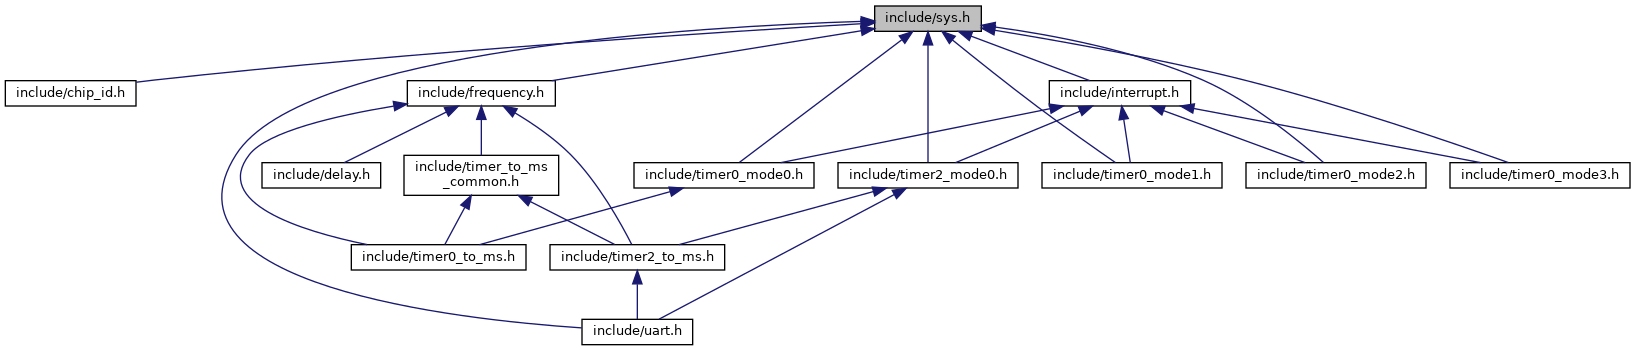
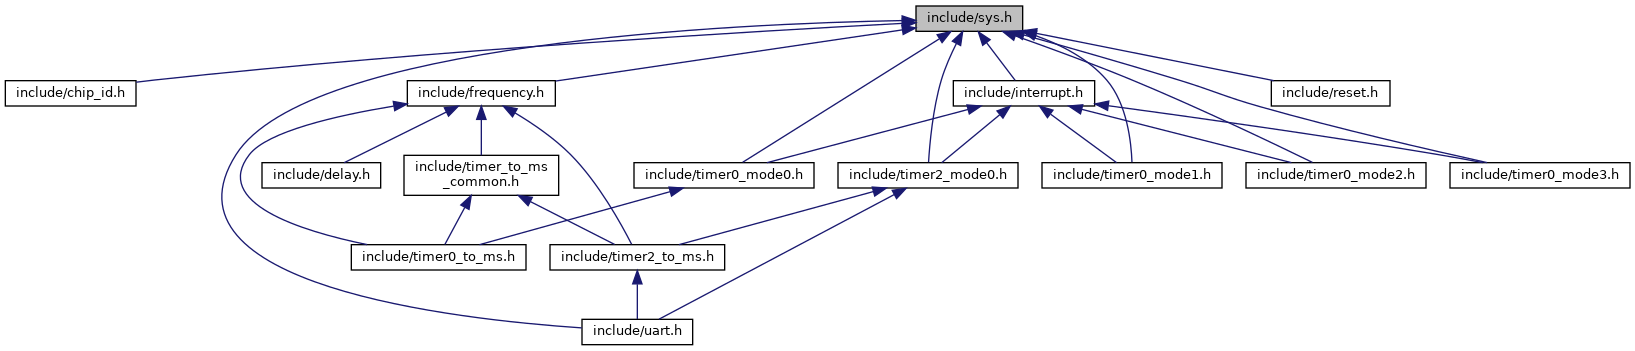
quick and dirty reset() implemented

diff --git a/docs/html/files.html b/docs/html/files.html
@@ -73,19 +73,20 @@ $(function() {
 <tr id="row_0_2_"><td class="entry"><span style="width:32px;display:inline-block;">&#160;</span><a href="delay_8h_source.html"><span class="icondoc"></span></a><a class="el" href="delay_8h.html" target="_self">delay.h</a></td><td class="desc"></td></tr>
 <tr id="row_0_3_" class="even"><td class="entry"><span style="width:32px;display:inline-block;">&#160;</span><a href="frequency_8h_source.html"><span class="icondoc"></span></a><a class="el" href="frequency_8h.html" target="_self">frequency.h</a></td><td class="desc"></td></tr>
 <tr id="row_0_4_"><td class="entry"><span style="width:32px;display:inline-block;">&#160;</span><a href="interrupt_8h_source.html"><span class="icondoc"></span></a><a class="el" href="interrupt_8h.html" target="_self">interrupt.h</a></td><td class="desc"></td></tr>
-<tr id="row_0_5_" class="even"><td class="entry"><span style="width:32px;display:inline-block;">&#160;</span><a href="STC15Fxx_8h_source.html"><span class="icondoc"></span></a><b>STC15Fxx.h</b></td><td class="desc"></td></tr>
-<tr id="row_0_6_"><td class="entry"><span style="width:32px;display:inline-block;">&#160;</span><a href="sys_8h_source.html"><span class="icondoc"></span></a><a class="el" href="sys_8h.html" target="_self">sys.h</a></td><td class="desc"></td></tr>
-<tr id="row_0_7_" class="even"><td class="entry"><span style="width:32px;display:inline-block;">&#160;</span><a href="timer0__mode0_8h_source.html"><span class="icondoc"></span></a><a class="el" href="timer0__mode0_8h.html" target="_self">timer0_mode0.h</a></td><td class="desc"></td></tr>
-<tr id="row_0_8_"><td class="entry"><span style="width:32px;display:inline-block;">&#160;</span><a href="timer0__mode1_8h_source.html"><span class="icondoc"></span></a><a class="el" href="timer0__mode1_8h.html" target="_self">timer0_mode1.h</a></td><td class="desc"></td></tr>
-<tr id="row_0_9_" class="even"><td class="entry"><span style="width:32px;display:inline-block;">&#160;</span><a href="timer0__mode2_8h_source.html"><span class="icondoc"></span></a><a class="el" href="timer0__mode2_8h.html" target="_self">timer0_mode2.h</a></td><td class="desc"></td></tr>
-<tr id="row_0_10_"><td class="entry"><span style="width:32px;display:inline-block;">&#160;</span><a href="timer0__mode3_8h_source.html"><span class="icondoc"></span></a><a class="el" href="timer0__mode3_8h.html" target="_self">timer0_mode3.h</a></td><td class="desc"></td></tr>
-<tr id="row_0_11_" class="even"><td class="entry"><span style="width:32px;display:inline-block;">&#160;</span><a href="timer0__to__ms_8h_source.html"><span class="icondoc"></span></a><a class="el" href="timer0__to__ms_8h.html" target="_self">timer0_to_ms.h</a></td><td class="desc"></td></tr>
-<tr id="row_0_12_"><td class="entry"><span style="width:32px;display:inline-block;">&#160;</span><a href="timer2__mode0_8h_source.html"><span class="icondoc"></span></a><a class="el" href="timer2__mode0_8h.html" target="_self">timer2_mode0.h</a></td><td class="desc"></td></tr>
-<tr id="row_0_13_" class="even"><td class="entry"><span style="width:32px;display:inline-block;">&#160;</span><a href="timer2__to__ms_8h_source.html"><span class="icondoc"></span></a><a class="el" href="timer2__to__ms_8h.html" target="_self">timer2_to_ms.h</a></td><td class="desc"></td></tr>
-<tr id="row_0_14_"><td class="entry"><span style="width:32px;display:inline-block;">&#160;</span><a href="timer__common_8h_source.html"><span class="icondoc"></span></a><a class="el" href="timer__common_8h.html" target="_self">timer_common.h</a></td><td class="desc"></td></tr>
-<tr id="row_0_15_" class="even"><td class="entry"><span style="width:32px;display:inline-block;">&#160;</span><a href="timer__structs_8h_source.html"><span class="icondoc"></span></a><b>timer_structs.h</b></td><td class="desc"></td></tr>
-<tr id="row_0_16_"><td class="entry"><span style="width:32px;display:inline-block;">&#160;</span><a href="timer__to__ms__common_8h_source.html"><span class="icondoc"></span></a><a class="el" href="timer__to__ms__common_8h.html" target="_self">timer_to_ms_common.h</a></td><td class="desc"></td></tr>
-<tr id="row_0_17_" class="even"><td class="entry"><span style="width:32px;display:inline-block;">&#160;</span><a href="uart_8h_source.html"><span class="icondoc"></span></a><a class="el" href="uart_8h.html" target="_self">uart.h</a></td><td class="desc"></td></tr>
+<tr id="row_0_5_" class="even"><td class="entry"><span style="width:32px;display:inline-block;">&#160;</span><a href="reset_8h_source.html"><span class="icondoc"></span></a><a class="el" href="reset_8h.html" target="_self">reset.h</a></td><td class="desc"></td></tr>
+<tr id="row_0_6_"><td class="entry"><span style="width:32px;display:inline-block;">&#160;</span><a href="STC15Fxx_8h_source.html"><span class="icondoc"></span></a><b>STC15Fxx.h</b></td><td class="desc"></td></tr>
+<tr id="row_0_7_" class="even"><td class="entry"><span style="width:32px;display:inline-block;">&#160;</span><a href="sys_8h_source.html"><span class="icondoc"></span></a><a class="el" href="sys_8h.html" target="_self">sys.h</a></td><td class="desc"></td></tr>
+<tr id="row_0_8_"><td class="entry"><span style="width:32px;display:inline-block;">&#160;</span><a href="timer0__mode0_8h_source.html"><span class="icondoc"></span></a><a class="el" href="timer0__mode0_8h.html" target="_self">timer0_mode0.h</a></td><td class="desc"></td></tr>
+<tr id="row_0_9_" class="even"><td class="entry"><span style="width:32px;display:inline-block;">&#160;</span><a href="timer0__mode1_8h_source.html"><span class="icondoc"></span></a><a class="el" href="timer0__mode1_8h.html" target="_self">timer0_mode1.h</a></td><td class="desc"></td></tr>
+<tr id="row_0_10_"><td class="entry"><span style="width:32px;display:inline-block;">&#160;</span><a href="timer0__mode2_8h_source.html"><span class="icondoc"></span></a><a class="el" href="timer0__mode2_8h.html" target="_self">timer0_mode2.h</a></td><td class="desc"></td></tr>
+<tr id="row_0_11_" class="even"><td class="entry"><span style="width:32px;display:inline-block;">&#160;</span><a href="timer0__mode3_8h_source.html"><span class="icondoc"></span></a><a class="el" href="timer0__mode3_8h.html" target="_self">timer0_mode3.h</a></td><td class="desc"></td></tr>
+<tr id="row_0_12_"><td class="entry"><span style="width:32px;display:inline-block;">&#160;</span><a href="timer0__to__ms_8h_source.html"><span class="icondoc"></span></a><a class="el" href="timer0__to__ms_8h.html" target="_self">timer0_to_ms.h</a></td><td class="desc"></td></tr>
+<tr id="row_0_13_" class="even"><td class="entry"><span style="width:32px;display:inline-block;">&#160;</span><a href="timer2__mode0_8h_source.html"><span class="icondoc"></span></a><a class="el" href="timer2__mode0_8h.html" target="_self">timer2_mode0.h</a></td><td class="desc"></td></tr>
+<tr id="row_0_14_"><td class="entry"><span style="width:32px;display:inline-block;">&#160;</span><a href="timer2__to__ms_8h_source.html"><span class="icondoc"></span></a><a class="el" href="timer2__to__ms_8h.html" target="_self">timer2_to_ms.h</a></td><td class="desc"></td></tr>
+<tr id="row_0_15_" class="even"><td class="entry"><span style="width:32px;display:inline-block;">&#160;</span><a href="timer__common_8h_source.html"><span class="icondoc"></span></a><a class="el" href="timer__common_8h.html" target="_self">timer_common.h</a></td><td class="desc"></td></tr>
+<tr id="row_0_16_"><td class="entry"><span style="width:32px;display:inline-block;">&#160;</span><a href="timer__structs_8h_source.html"><span class="icondoc"></span></a><b>timer_structs.h</b></td><td class="desc"></td></tr>
+<tr id="row_0_17_" class="even"><td class="entry"><span style="width:32px;display:inline-block;">&#160;</span><a href="timer__to__ms__common_8h_source.html"><span class="icondoc"></span></a><a class="el" href="timer__to__ms__common_8h.html" target="_self">timer_to_ms_common.h</a></td><td class="desc"></td></tr>
+<tr id="row_0_18_"><td class="entry"><span style="width:32px;display:inline-block;">&#160;</span><a href="uart_8h_source.html"><span class="icondoc"></span></a><a class="el" href="uart_8h.html" target="_self">uart.h</a></td><td class="desc"></td></tr>
 </table>
 </div><!-- directory -->
 </div><!-- contents -->

diff --git a/docs/html/modules.html b/docs/html/modules.html
@@ -71,16 +71,17 @@ $(function() {
 <tr id="row_1_"><td class="entry"><span style="width:16px;display:inline-block;">&#160;</span><a class="el" href="group__delays.html" target="_self">Delay</a></td><td class="desc"></td></tr>
 <tr id="row_2_" class="even"><td class="entry"><span style="width:16px;display:inline-block;">&#160;</span><a class="el" href="group__freq.html" target="_self">Frequency</a></td><td class="desc"></td></tr>
 <tr id="row_3_"><td class="entry"><span style="width:16px;display:inline-block;">&#160;</span><a class="el" href="group__interrupts.html" target="_self">Interrupt</a></td><td class="desc"></td></tr>
-<tr id="row_4_" class="even"><td class="entry"><span style="width:16px;display:inline-block;">&#160;</span><a class="el" href="group__timer0__mode0.html" target="_self">Timer0 Mode0</a></td><td class="desc"></td></tr>
-<tr id="row_5_"><td class="entry"><span style="width:16px;display:inline-block;">&#160;</span><a class="el" href="group__timer0__mode1.html" target="_self">Timer0 Mode1</a></td><td class="desc"></td></tr>
-<tr id="row_6_" class="even"><td class="entry"><span style="width:16px;display:inline-block;">&#160;</span><a class="el" href="group__timer0__mode2.html" target="_self">Timer0 Mode2</a></td><td class="desc"></td></tr>
-<tr id="row_7_"><td class="entry"><span style="width:16px;display:inline-block;">&#160;</span><a class="el" href="group__timer0__mode3.html" target="_self">Timer0 Mode3</a></td><td class="desc"></td></tr>
-<tr id="row_8_" class="even"><td class="entry"><span style="width:16px;display:inline-block;">&#160;</span><a class="el" href="group__timer0__to__ms.html" target="_self">Timer0 Aux</a></td><td class="desc"></td></tr>
-<tr id="row_9_"><td class="entry"><span style="width:16px;display:inline-block;">&#160;</span><a class="el" href="group__timer2__mode0.html" target="_self">Timer2 Mode0</a></td><td class="desc"></td></tr>
-<tr id="row_10_" class="even"><td class="entry"><span style="width:16px;display:inline-block;">&#160;</span><a class="el" href="group__timer2__to__ms.html" target="_self">Timer2 Aux</a></td><td class="desc"></td></tr>
-<tr id="row_11_"><td class="entry"><span style="width:16px;display:inline-block;">&#160;</span><a class="el" href="group__timer__common.html" target="_self">Timer common</a></td><td class="desc"></td></tr>
-<tr id="row_12_" class="even"><td class="entry"><span style="width:16px;display:inline-block;">&#160;</span><a class="el" href="group__timer__to__ms.html" target="_self">Timer Aux common</a></td><td class="desc"></td></tr>
-<tr id="row_13_"><td class="entry"><span style="width:16px;display:inline-block;">&#160;</span><a class="el" href="group__uart.html" target="_self">UART1</a></td><td class="desc"></td></tr>
+<tr id="row_4_" class="even"><td class="entry"><span style="width:16px;display:inline-block;">&#160;</span><a class="el" href="group__reset.html" target="_self">Reset and WDT</a></td><td class="desc"></td></tr>
+<tr id="row_5_"><td class="entry"><span style="width:16px;display:inline-block;">&#160;</span><a class="el" href="group__timer0__mode0.html" target="_self">Timer0 Mode0</a></td><td class="desc"></td></tr>
+<tr id="row_6_" class="even"><td class="entry"><span style="width:16px;display:inline-block;">&#160;</span><a class="el" href="group__timer0__mode1.html" target="_self">Timer0 Mode1</a></td><td class="desc"></td></tr>
+<tr id="row_7_"><td class="entry"><span style="width:16px;display:inline-block;">&#160;</span><a class="el" href="group__timer0__mode2.html" target="_self">Timer0 Mode2</a></td><td class="desc"></td></tr>
+<tr id="row_8_" class="even"><td class="entry"><span style="width:16px;display:inline-block;">&#160;</span><a class="el" href="group__timer0__mode3.html" target="_self">Timer0 Mode3</a></td><td class="desc"></td></tr>
+<tr id="row_9_"><td class="entry"><span style="width:16px;display:inline-block;">&#160;</span><a class="el" href="group__timer0__to__ms.html" target="_self">Timer0 Aux</a></td><td class="desc"></td></tr>
+<tr id="row_10_" class="even"><td class="entry"><span style="width:16px;display:inline-block;">&#160;</span><a class="el" href="group__timer2__mode0.html" target="_self">Timer2 Mode0</a></td><td class="desc"></td></tr>
+<tr id="row_11_"><td class="entry"><span style="width:16px;display:inline-block;">&#160;</span><a class="el" href="group__timer2__to__ms.html" target="_self">Timer2 Aux</a></td><td class="desc"></td></tr>
+<tr id="row_12_" class="even"><td class="entry"><span style="width:16px;display:inline-block;">&#160;</span><a class="el" href="group__timer__common.html" target="_self">Timer common</a></td><td class="desc"></td></tr>
+<tr id="row_13_"><td class="entry"><span style="width:16px;display:inline-block;">&#160;</span><a class="el" href="group__timer__to__ms.html" target="_self">Timer Aux common</a></td><td class="desc"></td></tr>
+<tr id="row_14_" class="even"><td class="entry"><span style="width:16px;display:inline-block;">&#160;</span><a class="el" href="group__uart.html" target="_self">UART1</a></td><td class="desc"></td></tr>
 </table>
 </div><!-- directory -->
 </div><!-- contents -->

diff --git a/docs/html/reset_8h.html b/docs/html/reset_8h.html
@@ -5,7 +5,7 @@
 <meta http-equiv="X-UA-Compatible" content="IE=11"/>
 <meta name="generator" content="Doxygen 1.9.4"/>
 <meta name="viewport" content="width=device-width, initial-scale=1"/>
-<title>STC15W408AS library: src Directory Reference</title>
+<title>STC15W408AS library: include/reset.h File Reference</title>
 <link href="tabs.css" rel="stylesheet" type="text/css"/>
 <script type="text/javascript" src="jquery.js"></script>
 <script type="text/javascript" src="dynsections.js"></script>
@@ -62,23 +62,38 @@ $(function() {
 
 <div id="nav-path" class="navpath">
   <ul>
-<li class="navelem"><a class="el" href="dir_68267d1309a1af8e8297ef4c3efbcdba.html">src</a></li>  </ul>
+<li class="navelem"><a class="el" href="dir_d44c64559bbebec7f509842c48db8b23.html">include</a></li>  </ul>
 </div>
 </div><!-- top -->
 <div class="header">
-  <div class="headertitle"><div class="title">src Directory Reference</div></div>
+  <div class="summary">
+<a href="#func-members">Functions</a>  </div>
+  <div class="headertitle"><div class="title">reset.h File Reference</div></div>
 </div><!--header-->
 <div class="contents">
-<div class="dynheader">
-Directory dependency graph for src:</div>
+<div class="textblock"><code>#include &lt;<a class="el" href="sys_8h_source.html">sys.h</a>&gt;</code><br />
+<code>#include &lt;bits.h&gt;</code><br />
+</div><div class="textblock"><div class="dynheader">
+Include dependency graph for reset.h:</div>
 <div class="dyncontent">
-<div class="center"><img src="dir_68267d1309a1af8e8297ef4c3efbcdba_dep.png" border="0" usemap="#adir__68267d1309a1af8e8297ef4c3efbcdba__dep" alt="src"/></div>
-<map name="adir__68267d1309a1af8e8297ef4c3efbcdba__dep" id="adir__68267d1309a1af8e8297ef4c3efbcdba__dep">
-<area shape="rect" href="dir_68267d1309a1af8e8297ef4c3efbcdba.html" title="src" alt="" coords="5,5,77,53"/>
-<area shape="rect" href="dir_d44c64559bbebec7f509842c48db8b23.html" title="include" alt="" coords="5,101,77,149"/>
-<area shape="rect" href="dir_000017_000011.html" title="5" alt="" coords="45,76,54,90"/>
+<div class="center"><img src="reset_8h__incl.png" border="0" usemap="#ainclude_2reset_8h" alt=""/></div>
+<map name="ainclude_2reset_8h" id="ainclude_2reset_8h">
+<area shape="rect" title=" " alt="" coords="35,5,154,32"/>
+<area shape="rect" href="sys_8h.html" title=" " alt="" coords="27,80,83,107"/>
+<area shape="rect" href="bits_8h_source.html" title=" " alt="" coords="107,80,165,107"/>
+<area shape="rect" href="STC15Fxx_8h_source.html" title=" " alt="" coords="5,155,104,181"/>
+<area shape="rect" title=" " alt="" coords="9,229,100,256"/>
 </map>
 </div>
+</div>
+<p><a href="reset_8h_source.html">Go to the source code of this file.</a></p>
+<table class="memberdecls">
+<tr class="heading"><td colspan="2"><h2 class="groupheader"><a id="func-members" name="func-members"></a>
+Functions</h2></td></tr>
+<tr class="memitem:ad20897c5c8bd47f5d4005989bead0e55"><td class="memItemLeft" align="right" valign="top"><a id="ad20897c5c8bd47f5d4005989bead0e55" name="ad20897c5c8bd47f5d4005989bead0e55"></a>
+void&#160;</td><td class="memItemRight" valign="bottom"><b>reset</b> ()</td></tr>
+<tr class="separator:ad20897c5c8bd47f5d4005989bead0e55"><td class="memSeparator" colspan="2">&#160;</td></tr>
+</table>
 </div><!-- contents -->
 <!-- start footer part -->
 <hr class="footer"/><address class="footer"><small>

diff --git a/docs/html/reset_8h_source.html b/docs/html/reset_8h_source.html
@@ -5,7 +5,7 @@
 <meta http-equiv="X-UA-Compatible" content="IE=11"/>
 <meta name="generator" content="Doxygen 1.9.4"/>
 <meta name="viewport" content="width=device-width, initial-scale=1"/>
-<title>STC15W408AS library: src Directory Reference</title>
+<title>STC15W408AS library: include/reset.h Source File</title>
 <link href="tabs.css" rel="stylesheet" type="text/css"/>
 <script type="text/javascript" src="jquery.js"></script>
 <script type="text/javascript" src="dynsections.js"></script>
@@ -62,24 +62,23 @@ $(function() {
 
 <div id="nav-path" class="navpath">
   <ul>
-<li class="navelem"><a class="el" href="dir_68267d1309a1af8e8297ef4c3efbcdba.html">src</a></li>  </ul>
+<li class="navelem"><a class="el" href="dir_d44c64559bbebec7f509842c48db8b23.html">include</a></li>  </ul>
 </div>
 </div><!-- top -->
 <div class="header">
-  <div class="headertitle"><div class="title">src Directory Reference</div></div>
+  <div class="headertitle"><div class="title">reset.h</div></div>
 </div><!--header-->
 <div class="contents">
-<div class="dynheader">
-Directory dependency graph for src:</div>
-<div class="dyncontent">
-<div class="center"><img src="dir_68267d1309a1af8e8297ef4c3efbcdba_dep.png" border="0" usemap="#adir__68267d1309a1af8e8297ef4c3efbcdba__dep" alt="src"/></div>
-<map name="adir__68267d1309a1af8e8297ef4c3efbcdba__dep" id="adir__68267d1309a1af8e8297ef4c3efbcdba__dep">
-<area shape="rect" href="dir_68267d1309a1af8e8297ef4c3efbcdba.html" title="src" alt="" coords="5,5,77,53"/>
-<area shape="rect" href="dir_d44c64559bbebec7f509842c48db8b23.html" title="include" alt="" coords="5,101,77,149"/>
-<area shape="rect" href="dir_000017_000011.html" title="5" alt="" coords="45,76,54,90"/>
-</map>
-</div>
-</div><!-- contents -->
+<a href="reset_8h.html">Go to the documentation of this file.</a><div class="fragment"><div class="line"><a id="l00001" name="l00001"></a><span class="lineno">    1</span><span class="preprocessor">#ifndef STC15_RESETH</span></div>
+<div class="line"><a id="l00002" name="l00002"></a><span class="lineno">    2</span><span class="preprocessor">#define STC15_RESETH</span></div>
+<div class="line"><a id="l00003" name="l00003"></a><span class="lineno">    3</span> </div>
+<div class="line"><a id="l00004" name="l00004"></a><span class="lineno">    4</span> </div>
+<div class="line"><a id="l00005" name="l00005"></a><span class="lineno">    5</span><span class="preprocessor">#include &lt;<a class="code" href="sys_8h.html">sys.h</a>&gt;</span></div>
+<div class="line"><a id="l00006" name="l00006"></a><span class="lineno">    6</span><span class="preprocessor">#include &lt;bits.h&gt;</span></div>
+<div class="line"><a id="l00014" name="l00014"></a><span class="lineno">   14</span><span class="keywordtype">void</span> reset();</div>
+<div class="line"><a id="l00015" name="l00015"></a><span class="lineno">   15</span><span class="preprocessor">#endif</span></div>
+<div class="ttc" id="asys_8h_html"><div class="ttname"><a href="sys_8h.html">sys.h</a></div></div>
+</div><!-- fragment --></div><!-- contents -->
 <!-- start footer part -->
 <hr class="footer"/><address class="footer"><small>
 Generated by&#160;<a href="https://www.doxygen.org/index.html"><img class="footer" src="doxygen.svg" width="104" height="31" alt="doxygen"/></a> 1.9.4

diff --git a/docs/html/group__reset.html b/docs/html/group__reset.html
@@ -5,7 +5,7 @@
 <meta http-equiv="X-UA-Compatible" content="IE=11"/>
 <meta name="generator" content="Doxygen 1.9.4"/>
 <meta name="viewport" content="width=device-width, initial-scale=1"/>
-<title>STC15W408AS library: src Directory Reference</title>
+<title>STC15W408AS library: Reset and WDT</title>
 <link href="tabs.css" rel="stylesheet" type="text/css"/>
 <script type="text/javascript" src="jquery.js"></script>
 <script type="text/javascript" src="dynsections.js"></script>
@@ -46,6 +46,7 @@ $(function() {
 /* @license-end */
 </script>
 <div id="main-nav"></div>
+</div><!-- top -->
 <!-- window showing the filter options -->
 <div id="MSearchSelectWindow"
      onmouseover="return searchBox.OnSearchSelectShow()"
@@ -60,25 +61,11 @@ $(function() {
 </iframe>
 </div>
 
-<div id="nav-path" class="navpath">
-  <ul>
-<li class="navelem"><a class="el" href="dir_68267d1309a1af8e8297ef4c3efbcdba.html">src</a></li>  </ul>
-</div>
-</div><!-- top -->
 <div class="header">
-  <div class="headertitle"><div class="title">src Directory Reference</div></div>
+  <div class="headertitle"><div class="title">Reset and WDT</div></div>
 </div><!--header-->
 <div class="contents">
-<div class="dynheader">
-Directory dependency graph for src:</div>
-<div class="dyncontent">
-<div class="center"><img src="dir_68267d1309a1af8e8297ef4c3efbcdba_dep.png" border="0" usemap="#adir__68267d1309a1af8e8297ef4c3efbcdba__dep" alt="src"/></div>
-<map name="adir__68267d1309a1af8e8297ef4c3efbcdba__dep" id="adir__68267d1309a1af8e8297ef4c3efbcdba__dep">
-<area shape="rect" href="dir_68267d1309a1af8e8297ef4c3efbcdba.html" title="src" alt="" coords="5,5,77,53"/>
-<area shape="rect" href="dir_d44c64559bbebec7f509842c48db8b23.html" title="include" alt="" coords="5,101,77,149"/>
-<area shape="rect" href="dir_000017_000011.html" title="5" alt="" coords="45,76,54,90"/>
-</map>
-</div>
+<p >Functions and data structures related software reset </p><dl class="section author"><dt>Author</dt><dd>Michael Golovanov </dd></dl>
 </div><!-- contents -->
 <!-- start footer part -->
 <hr class="footer"/><address class="footer"><small>

diff --git a/docs/html/dir_000017_000011.html b/docs/html/dir_000017_000011.html
@@ -66,7 +66,7 @@ $(function() {
 </div>
 </div><!-- top -->
 <div class="contents">
-<h3>src &rarr; include Relation</h3><table class="dirtab"><tr class="dirtab"><th class="dirtab">File in src</th><th class="dirtab">Includes file in include</th></tr><tr class="dirtab"><td class="dirtab"><b>delay.c</b></td><td class="dirtab"><a class="el" href="delay_8h.html">delay.h</a></td></tr><tr class="dirtab"><td class="dirtab"><b>timer0_to_ms_common.c</b></td><td class="dirtab"><a class="el" href="timer__to__ms__common_8h.html">timer_to_ms_common.h</a></td></tr><tr class="dirtab"><td class="dirtab"><b>timer2_to_ms.c</b></td><td class="dirtab"><a class="el" href="timer2__to__ms_8h.html">timer2_to_ms.h</a></td></tr><tr class="dirtab"><td class="dirtab"><b>uart.c</b></td><td class="dirtab"><a class="el" href="uart_8h.html">uart.h</a></td></tr></table></div><!-- contents -->
+<h3>src &rarr; include Relation</h3><table class="dirtab"><tr class="dirtab"><th class="dirtab">File in src</th><th class="dirtab">Includes file in include</th></tr><tr class="dirtab"><td class="dirtab"><b>delay.c</b></td><td class="dirtab"><a class="el" href="delay_8h.html">delay.h</a></td></tr><tr class="dirtab"><td class="dirtab"><b>reset.c</b></td><td class="dirtab"><a class="el" href="reset_8h.html">reset.h</a></td></tr><tr class="dirtab"><td class="dirtab"><b>timer0_to_ms_common.c</b></td><td class="dirtab"><a class="el" href="timer__to__ms__common_8h.html">timer_to_ms_common.h</a></td></tr><tr class="dirtab"><td class="dirtab"><b>timer2_to_ms.c</b></td><td class="dirtab"><a class="el" href="timer2__to__ms_8h.html">timer2_to_ms.h</a></td></tr><tr class="dirtab"><td class="dirtab"><b>uart.c</b></td><td class="dirtab"><a class="el" href="uart_8h.html">uart.h</a></td></tr></table></div><!-- contents -->
 <!-- start footer part -->
 <hr class="footer"/><address class="footer"><small>
 Generated by&#160;<a href="https://www.doxygen.org/index.html"><img class="footer" src="doxygen.svg" width="104" height="31" alt="doxygen"/></a> 1.9.4

diff --git a/docs/html/sys_8h.html b/docs/html/sys_8h.html
@@ -87,16 +87,17 @@ This graph shows which files directly or indirectly include this file:</div>
 <div class="dyncontent">
 <div class="center"><img src="sys_8h__dep__incl.png" border="0" usemap="#ainclude_2sys_8hdep" alt=""/></div>
 <map name="ainclude_2sys_8hdep" id="ainclude_2sys_8hdep">
-<area shape="rect" title=" " alt="" coords="875,5,981,32"/>
+<area shape="rect" title=" " alt="" coords="916,5,1023,32"/>
 <area shape="rect" href="chip__id_8h.html" title=" " alt="" coords="5,80,136,107"/>
 <area shape="rect" href="frequency_8h.html" title=" " alt="" coords="407,80,555,107"/>
 <area shape="rect" href="uart_8h.html" title=" " alt="" coords="582,319,693,345"/>
-<area shape="rect" href="interrupt_8h.html" title=" " alt="" coords="1049,80,1191,107"/>
+<area shape="rect" href="interrupt_8h.html" title=" " alt="" coords="953,80,1095,107"/>
 <area shape="rect" href="timer0__mode0_8h.html" title=" " alt="" coords="634,162,814,189"/>
 <area shape="rect" href="timer0__mode1_8h.html" title=" " alt="" coords="1042,162,1222,189"/>
 <area shape="rect" href="timer0__mode2_8h.html" title=" " alt="" coords="1246,162,1426,189"/>
 <area shape="rect" href="timer0__mode3_8h.html" title=" " alt="" coords="1450,162,1630,189"/>
 <area shape="rect" href="timer2__mode0_8h.html" title=" " alt="" coords="838,162,1018,189"/>
+<area shape="rect" href="reset_8h.html" title=" " alt="" coords="1271,80,1390,107"/>
 <area shape="rect" href="delay_8h.html" title=" " alt="" coords="262,162,381,189"/>
 <area shape="rect" href="timer0__to__ms_8h.html" title=" " alt="" coords="351,244,526,271"/>
 <area shape="rect" href="timer2__to__ms_8h.html" title=" " alt="" coords="550,244,725,271"/>

diff --git a/docs/html/search/groups_6.html b/docs/html/search/groups_6.html
@@ -1,0 +1,37 @@
+<!DOCTYPE html PUBLIC "-//W3C//DTD XHTML 1.0 Transitional//EN" "https://www.w3.org/TR/xhtml1/DTD/xhtml1-transitional.dtd">
+<html xmlns="http://www.w3.org/1999/xhtml">
+<head><title></title>
+<meta http-equiv="Content-Type" content="text/xhtml;charset=UTF-8"/>
+<meta name="generator" content="Doxygen 1.9.4"/>
+<link rel="stylesheet" type="text/css" href="search.css"/>
+<script type="text/javascript" src="groups_6.js"></script>
+<script type="text/javascript" src="search.js"></script>
+</head>
+<body class="SRPage">
+<div id="SRIndex">
+<div class="SRStatus" id="Loading">Loading...</div>
+<div id="SRResults"></div>
+<script type="text/javascript">
+/* @license magnet:?xt=urn:btih:d3d9a9a6595521f9666a5e94cc830dab83b65699&amp;dn=expat.txt MIT */
+createResults();
+/* @license-end */
+</script>
+<div class="SRStatus" id="Searching">Searching...</div>
+<div class="SRStatus" id="NoMatches">No Matches</div>
+<script type="text/javascript">
+/* @license magnet:?xt=urn:btih:d3d9a9a6595521f9666a5e94cc830dab83b65699&amp;dn=expat.txt MIT */
+document.getElementById("Loading").style.display="none";
+document.getElementById("NoMatches").style.display="none";
+var searchResults = new SearchResults("searchResults");
+searchResults.Search();
+window.addEventListener("message", function(event) {
+  if (event.data == "take_focus") {
+    var elem = searchResults.NavNext(0);
+    if (elem) elem.focus();
+  }
+});
+/* @license-end */
+</script>
+</div>
+</body>
+</html>

diff --git a/docs/html/dir_d44c64559bbebec7f509842c48db8b23.html b/docs/html/dir_d44c64559bbebec7f509842c48db8b23.html
@@ -82,6 +82,8 @@ Files</h2></td></tr>
 <tr class="separator:"><td class="memSeparator" colspan="2">&#160;</td></tr>
 <tr class="memitem:"><td class="memItemLeft" align="right" valign="top">file &#160;</td><td class="memItemRight" valign="bottom"><a class="el" href="interrupt_8h.html">interrupt.h</a> <a href="interrupt_8h_source.html">[code]</a></td></tr>
 <tr class="separator:"><td class="memSeparator" colspan="2">&#160;</td></tr>
+<tr class="memitem:"><td class="memItemLeft" align="right" valign="top">file &#160;</td><td class="memItemRight" valign="bottom"><a class="el" href="reset_8h.html">reset.h</a> <a href="reset_8h_source.html">[code]</a></td></tr>
+<tr class="separator:"><td class="memSeparator" colspan="2">&#160;</td></tr>
 <tr class="memitem:"><td class="memItemLeft" align="right" valign="top">file &#160;</td><td class="memItemRight" valign="bottom"><b>STC15Fxx.h</b> <a href="STC15Fxx_8h_source.html">[code]</a></td></tr>
 <tr class="separator:"><td class="memSeparator" colspan="2">&#160;</td></tr>
 <tr class="memitem:"><td class="memItemLeft" align="right" valign="top">file &#160;</td><td class="memItemRight" valign="bottom"><a class="el" href="sys_8h.html">sys.h</a> <a href="sys_8h_source.html">[code]</a></td></tr>

diff --git a/docs/html/search/files_6.js b/docs/html/search/files_6.js
@@ -1,4 +1,12 @@
 var searchData=
 [
-  ['uart_2eh_0',['uart.h',['../uart_8h.html',1,'']]]
+  ['timer0_5fmode0_2eh_0',['timer0_mode0.h',['../timer0__mode0_8h.html',1,'']]],
+  ['timer0_5fmode1_2eh_1',['timer0_mode1.h',['../timer0__mode1_8h.html',1,'']]],
+  ['timer0_5fmode2_2eh_2',['timer0_mode2.h',['../timer0__mode2_8h.html',1,'']]],
+  ['timer0_5fmode3_2eh_3',['timer0_mode3.h',['../timer0__mode3_8h.html',1,'']]],
+  ['timer0_5fto_5fms_2eh_4',['timer0_to_ms.h',['../timer0__to__ms_8h.html',1,'']]],
+  ['timer2_5fmode0_2eh_5',['timer2_mode0.h',['../timer2__mode0_8h.html',1,'']]],
+  ['timer2_5fto_5fms_2eh_6',['timer2_to_ms.h',['../timer2__to__ms_8h.html',1,'']]],
+  ['timer_5fcommon_2eh_7',['timer_common.h',['../timer__common_8h.html',1,'']]],
+  ['timer_5fto_5fms_5fcommon_2eh_8',['timer_to_ms_common.h',['../timer__to__ms__common_8h.html',1,'']]]
 ];

diff --git a/docs/html/search/files_5.js b/docs/html/search/files_5.js
@@ -1,12 +1,4 @@
 var searchData=
 [
-  ['timer0_5fmode0_2eh_0',['timer0_mode0.h',['../timer0__mode0_8h.html',1,'']]],
-  ['timer0_5fmode1_2eh_1',['timer0_mode1.h',['../timer0__mode1_8h.html',1,'']]],
-  ['timer0_5fmode2_2eh_2',['timer0_mode2.h',['../timer0__mode2_8h.html',1,'']]],
-  ['timer0_5fmode3_2eh_3',['timer0_mode3.h',['../timer0__mode3_8h.html',1,'']]],
-  ['timer0_5fto_5fms_2eh_4',['timer0_to_ms.h',['../timer0__to__ms_8h.html',1,'']]],
-  ['timer2_5fmode0_2eh_5',['timer2_mode0.h',['../timer2__mode0_8h.html',1,'']]],
-  ['timer2_5fto_5fms_2eh_6',['timer2_to_ms.h',['../timer2__to__ms_8h.html',1,'']]],
-  ['timer_5fcommon_2eh_7',['timer_common.h',['../timer__common_8h.html',1,'']]],
-  ['timer_5fto_5fms_5fcommon_2eh_8',['timer_to_ms_common.h',['../timer__to__ms__common_8h.html',1,'']]]
+  ['sys_2eh_0',['sys.h',['../sys_8h.html',1,'']]]
 ];

diff --git a/docs/html/search/groups_4.js b/docs/html/search/groups_4.js
@@ -1,12 +1,4 @@
 var searchData=
 [
-  ['timer_20aux_20common_0',['Timer Aux common',['../group__timer__to__ms.html',1,'']]],
-  ['timer_20common_1',['Timer common',['../group__timer__common.html',1,'']]],
-  ['timer0_20aux_2',['Timer0 Aux',['../group__timer0__to__ms.html',1,'']]],
-  ['timer0_20mode0_3',['Timer0 Mode0',['../group__timer0__mode0.html',1,'']]],
-  ['timer0_20mode1_4',['Timer0 Mode1',['../group__timer0__mode1.html',1,'']]],
-  ['timer0_20mode2_5',['Timer0 Mode2',['../group__timer0__mode2.html',1,'']]],
-  ['timer0_20mode3_6',['Timer0 Mode3',['../group__timer0__mode3.html',1,'']]],
-  ['timer2_20aux_7',['Timer2 Aux',['../group__timer2__to__ms.html',1,'']]],
-  ['timer2_20mode0_8',['Timer2 Mode0',['../group__timer2__mode0.html',1,'']]]
+  ['reset_20and_20wdt_0',['Reset and WDT',['../group__reset.html',1,'']]]
 ];
